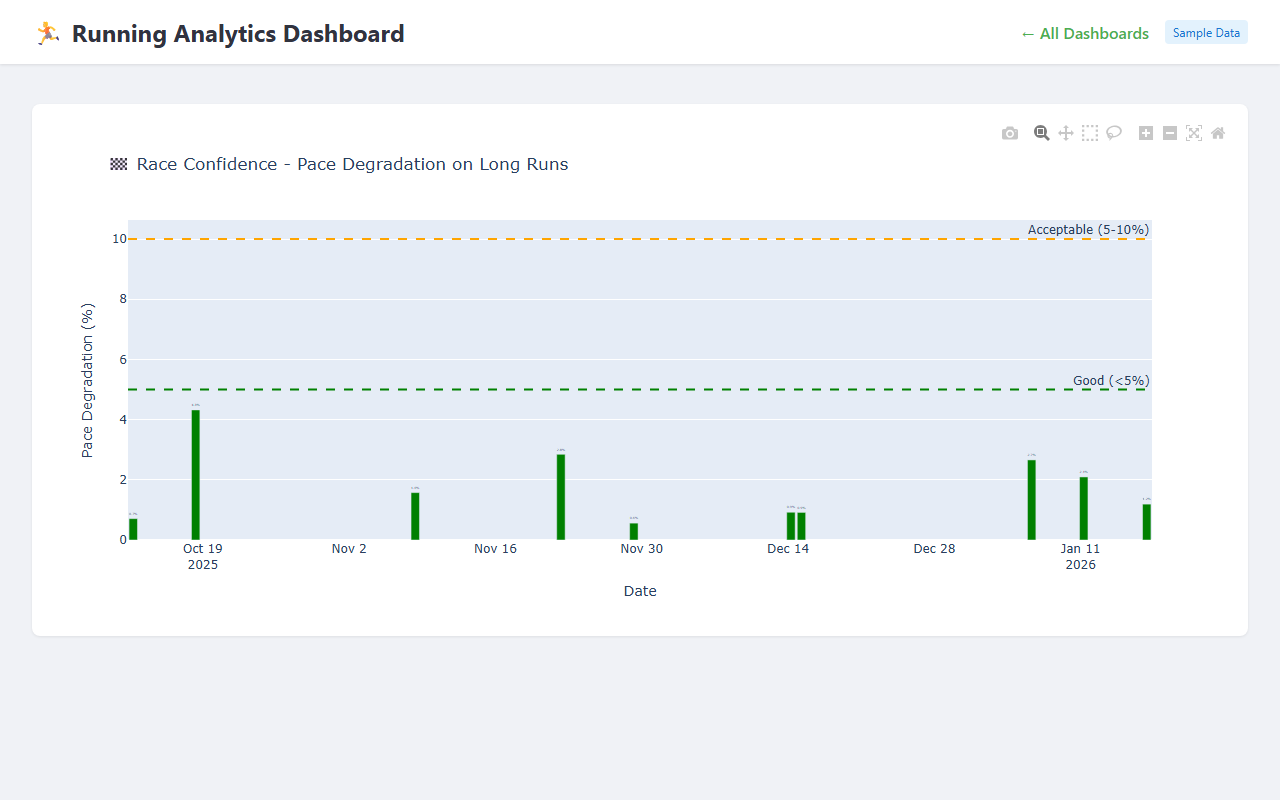
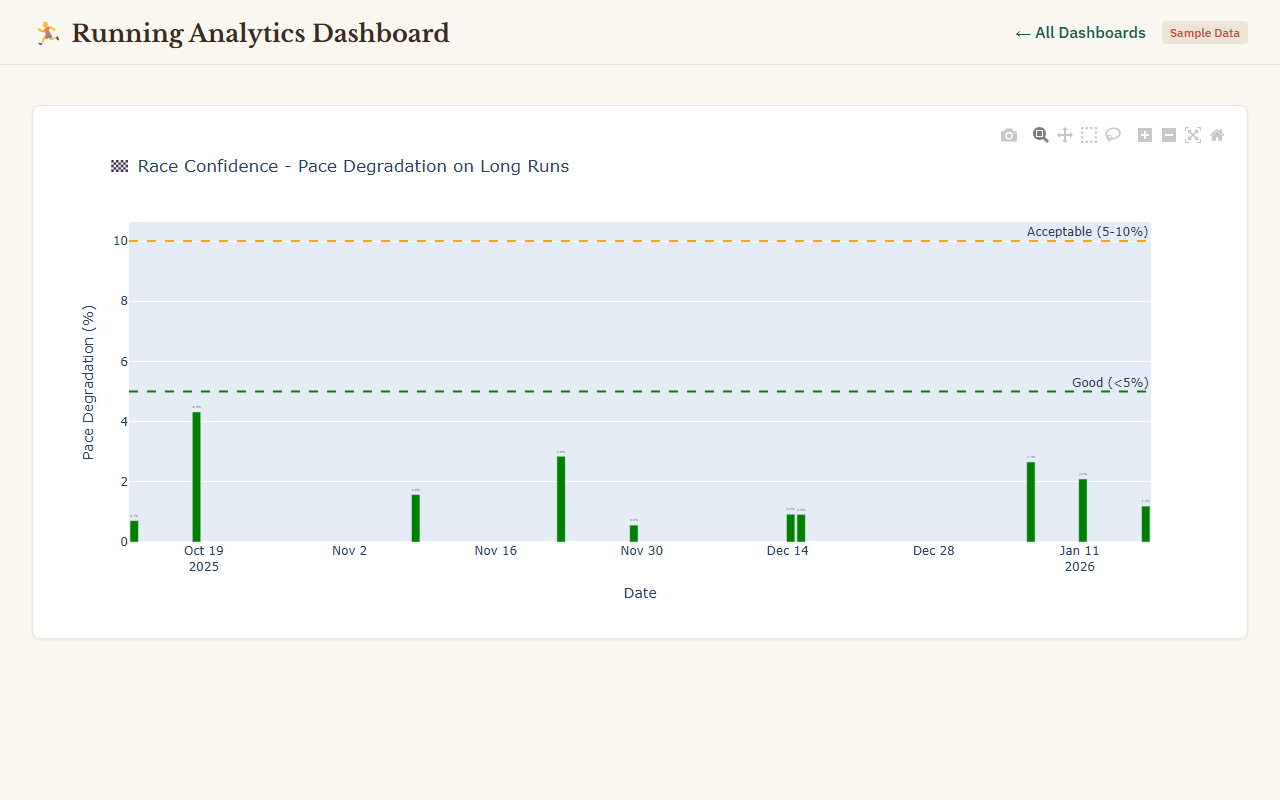
Apply Indian Earth design to dashboard snapshots and refresh screenshots

diff --git a/media/dashboard-snapshots/training-load.html b/media/dashboard-snapshots/training-load.html
@@ -6,16 +6,17 @@
     <meta name="viewport" content="width=device-width, initial-scale=1.0">
     <title>Training Load - Running Analytics</title>
     <style>
+        @import url('https://fonts.googleapis.com/css2?family=IBM+Plex+Sans:wght@400;500;600&family=Libre+Baskerville:wght@400;700&display=swap');
         * { box-sizing: border-box; }
-        body { font-family: -apple-system, BlinkMacSystemFont, 'Segoe UI', Roboto, sans-serif; margin: 0; background: #f0f2f6; }
-        .header { background: white; padding: 1rem 2rem; box-shadow: 0 1px 3px rgba(0,0,0,0.1); display: flex; align-items: center; justify-content: space-between; flex-wrap: wrap; gap: 1rem; }
-        .header h1 { margin: 0; font-size: 1.5rem; color: #31333f; }
-        .header a { color: #4CAF50; text-decoration: none; font-weight: 500; }
+        body { font-family: 'IBM Plex Sans', sans-serif; margin: 0; background: #faf6f0; color: #3d2b1f; }
+        .header { background: #faf6f0; padding: 1rem 2rem; border-bottom: 1px solid #ede4d5; display: flex; align-items: center; justify-content: space-between; flex-wrap: wrap; gap: 1rem; }
+        .header h1 { margin: 0; font-size: 1.5rem; color: #3d2b1f; font-family: 'Libre Baskerville', serif; }
+        .header a { color: #1a5c4c; text-decoration: none; font-weight: 500; }
         .header a:hover { text-decoration: underline; }
         .nav { display: flex; gap: 1rem; align-items: center; flex-wrap: wrap; }
-        .badge { background: #e3f2fd; color: #1976d2; padding: 0.25rem 0.5rem; border-radius: 4px; font-size: 0.75rem; }
+        .badge { background: #ede4d5; color: #c2452d; padding: 0.25rem 0.5rem; border-radius: 4px; font-size: 0.75rem; font-weight: 500; }
         .content { max-width: 1400px; margin: 0 auto; padding: 1.5rem 2rem; }
-        .chart-container { background: white; border-radius: 8px; padding: 1rem; margin-top: 1rem; box-shadow: 0 1px 3px rgba(0,0,0,0.08); }
+        .chart-container { background: white; border-radius: 8px; padding: 1rem; margin-top: 1rem; box-shadow: 0 1px 3px rgba(61,43,31,0.08); border: 1px solid #ede4d5; }
     </style>
 </head>
 <body>
@@ -29,7 +30,7 @@
     <div class="content">
         <div class="chart-container">
 <div>                        <script type="text/javascript">window.PlotlyConfig = {MathJaxConfig: 'local'};</script>
[2 lines of base64/hex data omitted]
         </div>
     </div>
 </body>

diff --git a/media/dashboard-snapshots/overview.html b/media/dashboard-snapshots/overview.html
@@ -6,16 +6,17 @@
     <meta name="viewport" content="width=device-width, initial-scale=1.0">
     <title>Overview - Running Analytics</title>
     <style>
+        @import url('https://fonts.googleapis.com/css2?family=IBM+Plex+Sans:wght@400;500;600&family=Libre+Baskerville:wght@400;700&display=swap');
         * { box-sizing: border-box; }
-        body { font-family: -apple-system, BlinkMacSystemFont, 'Segoe UI', Roboto, sans-serif; margin: 0; background: #f0f2f6; }
-        .header { background: white; padding: 1rem 2rem; box-shadow: 0 1px 3px rgba(0,0,0,0.1); display: flex; align-items: center; justify-content: space-between; flex-wrap: wrap; gap: 1rem; }
-        .header h1 { margin: 0; font-size: 1.5rem; color: #31333f; }
-        .header a { color: #4CAF50; text-decoration: none; font-weight: 500; }
+        body { font-family: 'IBM Plex Sans', sans-serif; margin: 0; background: #faf6f0; color: #3d2b1f; }
+        .header { background: #faf6f0; padding: 1rem 2rem; border-bottom: 1px solid #ede4d5; display: flex; align-items: center; justify-content: space-between; flex-wrap: wrap; gap: 1rem; }
+        .header h1 { margin: 0; font-size: 1.5rem; color: #3d2b1f; font-family: 'Libre Baskerville', serif; }
+        .header a { color: #1a5c4c; text-decoration: none; font-weight: 500; }
         .header a:hover { text-decoration: underline; }
         .nav { display: flex; gap: 1rem; align-items: center; flex-wrap: wrap; }
-        .badge { background: #e3f2fd; color: #1976d2; padding: 0.25rem 0.5rem; border-radius: 4px; font-size: 0.75rem; }
+        .badge { background: #ede4d5; color: #c2452d; padding: 0.25rem 0.5rem; border-radius: 4px; font-size: 0.75rem; font-weight: 500; }
         .content { max-width: 1400px; margin: 0 auto; padding: 1.5rem 2rem; }
-        .chart-container { background: white; border-radius: 8px; padding: 1rem; margin-top: 1rem; box-shadow: 0 1px 3px rgba(0,0,0,0.08); }
+        .chart-container { background: white; border-radius: 8px; padding: 1rem; margin-top: 1rem; box-shadow: 0 1px 3px rgba(61,43,31,0.08); border: 1px solid #ede4d5; }
     </style>
 </head>
 <body>
@@ -29,7 +30,7 @@
     <div class="content">
         <div class="chart-container">
 <div>                        <script type="text/javascript">window.PlotlyConfig = {MathJaxConfig: 'local'};</script>
-        <script charset="utf-8" src="https://cdn.plot.ly/plotly-3.3.1.min.js" integrity="sha256-4rD3fugVb/nVJYUv5Ky3v+fYXoouHaBSP20WIJuEiWg=" crossorigin="anonymous"></script>                <div id="57f77797-7b6c-47d9-9e78-6faa02aae124" class="plotly-graph-div" style="height:500px; width:100%;"></div>            <script type="text/javascript">                window.PLOTLYENV=window.PLOTLYENV || {};                                if (document.getElementById("57f77797-7b6c-47d9-9e78-6faa02aae124")) {                    Plotly.newPlot(                        "57f77797-7b6c-47d9-9e78-6faa02aae124",                        [{"marker":{"color":"steelblue"},"text":["20km","31km","53km","27km","53km","29km","52km","29km","35km","8km","47km","34km"],"textposition":"outside","x":["2025-10-27","2025-11-03","2025-11-10","2025-11-17","2025-11-24","2025-12-01","2025-12-08","2025-12-15","2025-12-22","2025-12-29","2026-01-05","2026-01-12"],"y":{"dtype":"f8","bdata":"MzMzMzNzNEBxPQrXozA\u002fQKRwPQrXQ0pAZmZmZmZmO0DsUbgehYtKQGZmZmZmpjxAUrgehesRSkBSuB6F61E9QFyPwvUovEFA16NwPQrXHkAehetRuJ5HQK5H4XoU7kBA"},"type":"bar"}],                        {"template":{"data":{"histogram2dcontour":[{"type":"histogram2dcontour","colorbar":{"outlinewidth":0,"ticks":""},"colorscale":[[0.0,"#0d0887"],[0.1111111111111111,"#46039f"],[0.2222222222222222,"#7201a8"],[0.3333333333333333,"#9c179e"],[0.4444444444444444,"#bd3786"],[0.5555555555555556,"#d8576b"],[0.6666666666666666,"#ed7953"],[0.7777777777777778,"#fb9f3a"],[0.8888888888888888,"#fdca26"],[1.0,"#f0f921"]]}],"choropleth":[{"type":"choropleth","colorbar":{"outlinewidth":0,"ticks":""}}],"histogram2d":[{"type":"histogram2d","colorbar":{"outlinewidth":0,"ticks":""},"colorscale":[[0.0,"#0d0887"],[0.1111111111111111,"#46039f"],[0.2222222222222222,"#7201a8"],[0.3333333333333333,"#9c179e"],[0.4444444444444444,"#bd3786"],[0.5555555555555556,"#d8576b"],[0.6666666666666666,"#ed7953"],[0.7777777777777778,"#fb9f3a"],[0.8888888888888888,"#fdca26"],[1.0,"#f0f921"]]}],"heatmap":[{"type":"heatmap","colorbar":{"outlinewidth":0,"ticks":""},"colorscale":[[0.0,"#0d0887"],[0.1111111111111111,"#46039f"],[0.2222222222222222,"#7201a8"],[0.3333333333333333,"#9c179e"],[0.4444444444444444,"#bd3786"],[0.5555555555555556,"#d8576b"],[0.6666666666666666,"#ed7953"],[0.7777777777777778,"#fb9f3a"],[0.8888888888888888,"#fdca26"],[1.0,"#f0f921"]]}],"contourcarpet":[{"type":"contourcarpet","colorbar":{"outlinewidth":0,"ticks":""}}],"contour":[{"type":"contour","colorbar":{"outlinewidth":0,"ticks":""},"colorscale":[[0.0,"#0d0887"],[0.1111111111111111,"#46039f"],[0.2222222222222222,"#7201a8"],[0.3333333333333333,"#9c179e"],[0.4444444444444444,"#bd3786"],[0.5555555555555556,"#d8576b"],[0.6666666666666666,"#ed7953"],[0.7777777777777778,"#fb9f3a"],[0.8888888888888888,"#fdca26"],[1.0,"#f0f921"]]}],"surface":[{"type":"surface","colorbar":{"outlinewidth":0,"ticks":""},"colorscale":[[0.0,"#0d0887"],[0.1111111111111111,"#46039f"],[0.2222222222222222,"#7201a8"],[0.3333333333333333,"#9c179e"],[0.4444444444444444,"#bd3786"],[0.5555555555555556,"#d8576b"],[0.6666666666666666,"#ed7953"],[0.7777777777777778,"#fb9f3a"],[0.8888888888888888,"#fdca26"],[1.0,"#f0f921"]]}],"mesh3d":[{"type":"mesh3d","colorbar":{"outlinewidth":0,"ticks":""}}],"scatter":[{"fillpattern":{"fillmode":"overlay","size":10,"solidity":0.2},"type":"scatter"}],"parcoords":[{"type":"parcoords","line":{"colorbar":{"outlinewidth":0,"ticks":""}}}],"scatterpolargl":[{"type":"scatterpolargl","marker":{"colorbar":{"outlinewidth":0,"ticks":""}}}],"bar":[{"error_x":{"color":"#2a3f5f"},"error_y":{"color":"#2a3f5f"},"marker":{"line":{"color":"#E5ECF6","width":0.5},"pattern":{"fillmode":"overlay","size":10,"solidity":0.2}},"type":"bar"}],"scattergeo":[{"type":"scattergeo","marker":{"colorbar":{"outlinewidth":0,"ticks":""}}}],"scatterpolar":[{"type":"scatterpolar","marker":{"colorbar":{"outlinewidth":0,"ticks":""}}}],"histogram":[{"marker":{"pattern":{"fillmode":"overlay","size":10,"solidity":0.2}},"type":"histogram"}],"scattergl":[{"type":"scattergl","marker":{"colorbar":{"outlinewidth":0,"ticks":""}}}],"scatter3d":[{"type":"scatter3d","line":{"colorbar":{"outlinewidth":0,"ticks":""}},"marker":{"colorbar":{"outlinewidth":0,"ticks":""}}}],"scattermap":[{"type":"scattermap","marker":{"colorbar":{"outlinewidth":0,"ticks":""}}}],"scattermapbox":[{"type":"scattermapbox","marker":{"colorbar":{"outlinewidth":0,"ticks":""}}}],"scatterternary":[{"type":"scatterternary","marker":{"colorbar":{"outlinewidth":0,"ticks":""}}}],"scattercarpet":[{"type":"scattercarpet","marker":{"colorbar":{"outlinewidth":0,"ticks":""}}}],"carpet":[{"aaxis":{"endlinecolor":"#2a3f5f","gridcolor":"white","linecolor":"white","minorgridcolor":"white","startlinecolor":"#2a3f5f"},"baxis":{"endlinecolor":"#2a3f5f","gridcolor":"white","linecolor":"white","minorgridcolor":"white","startlinecolor":"#2a3f5f"},"type":"carpet"}],"table":[{"cells":{"fill":{"color":"#EBF0F8"},"line":{"color":"white"}},"header":{"fill":{"color":"#C8D4E3"},"line":{"color":"white"}},"type":"table"}],"barpolar":[{"marker":{"line":{"color":"#E5ECF6","width":0.5},"pattern":{"fillmode":"overlay","size":10,"solidity":0.2}},"type":"barpolar"}],"pie":[{"automargin":true,"type":"pie"}]},"layout":{"autotypenumbers":"strict","colorway":["#636efa","#EF553B","#00cc96","#ab63fa","#FFA15A","#19d3f3","#FF6692","#B6E880","#FF97FF","#FECB52"],"font":{"color":"#2a3f5f"},"hovermode":"closest","hoverlabel":{"align":"left"},"paper_bgcolor":"white","plot_bgcolor":"#E5ECF6","polar":{"bgcolor":"#E5ECF6","angularaxis":{"gridcolor":"white","linecolor":"white","ticks":""},"radialaxis":{"gridcolor":"white","linecolor":"white","ticks":""}},"ternary":{"bgcolor":"#E5ECF6","aaxis":{"gridcolor":"white","linecolor":"white","ticks":""},"baxis":{"gridcolor":"white","linecolor":"white","ticks":""},"caxis":{"gridcolor":"white","linecolor":"white","ticks":""}},"coloraxis":{"colorbar":{"outlinewidth":0,"ticks":""}},"colorscale":{"sequential":[[0.0,"#0d0887"],[0.1111111111111111,"#46039f"],[0.2222222222222222,"#7201a8"],[0.3333333333333333,"#9c179e"],[0.4444444444444444,"#bd3786"],[0.5555555555555556,"#d8576b"],[0.6666666666666666,"#ed7953"],[0.7777777777777778,"#fb9f3a"],[0.8888888888888888,"#fdca26"],[1.0,"#f0f921"]],"sequentialminus":[[0.0,"#0d0887"],[0.1111111111111111,"#46039f"],[0.2222222222222222,"#7201a8"],[0.3333333333333333,"#9c179e"],[0.4444444444444444,"#bd3786"],[0.5555555555555556,"#d8576b"],[0.6666666666666666,"#ed7953"],[0.7777777777777778,"#fb9f3a"],[0.8888888888888888,"#fdca26"],[1.0,"#f0f921"]],"diverging":[[0,"#8e0152"],[0.1,"#c51b7d"],[0.2,"#de77ae"],[0.3,"#f1b6da"],[0.4,"#fde0ef"],[0.5,"#f7f7f7"],[0.6,"#e6f5d0"],[0.7,"#b8e186"],[0.8,"#7fbc41"],[0.9,"#4d9221"],[1,"#276419"]]},"xaxis":{"gridcolor":"white","linecolor":"white","ticks":"","title":{"standoff":15},"zerolinecolor":"white","automargin":true,"zerolinewidth":2},"yaxis":{"gridcolor":"white","linecolor":"white","ticks":"","title":{"standoff":15},"zerolinecolor":"white","automargin":true,"zerolinewidth":2},"scene":{"xaxis":{"backgroundcolor":"#E5ECF6","gridcolor":"white","linecolor":"white","showbackground":true,"ticks":"","zerolinecolor":"white","gridwidth":2},"yaxis":{"backgroundcolor":"#E5ECF6","gridcolor":"white","linecolor":"white","showbackground":true,"ticks":"","zerolinecolor":"white","gridwidth":2},"zaxis":{"backgroundcolor":"#E5ECF6","gridcolor":"white","linecolor":"white","showbackground":true,"ticks":"","zerolinecolor":"white","gridwidth":2}},"shapedefaults":{"line":{"color":"#2a3f5f"}},"annotationdefaults":{"arrowcolor":"#2a3f5f","arrowhead":0,"arrowwidth":1},"geo":{"bgcolor":"white","landcolor":"#E5ECF6","subunitcolor":"white","showland":true,"showlakes":true,"lakecolor":"white"},"title":{"x":0.05},"mapbox":{"style":"light"}}},"title":{"text":"\ud83d\udcca Training Overview - Last 12 Weeks\u003cbr\u003e\u003csub\u003eVO2max: 44.6 | Resting HR: 59 bpm | Training Load (7d): 363\u003c\u002fsub\u003e"},"xaxis":{"title":{"text":"Week"}},"yaxis":{"title":{"text":"Distance (km)"}},"height":500},                        {"displayModeBar": true, "displaylogo": false, "responsive": true}                    )                };            </script>        </div>
+        <script charset="utf-8" src="https://cdn.plot.ly/plotly-3.3.1.min.js" integrity="sha256-4rD3fugVb/nVJYUv5Ky3v+fYXoouHaBSP20WIJuEiWg=" crossorigin="anonymous"></script>                <div id="57f77797-7b6c-47d9-9e78-6faa02aae124" class="plotly-graph-div" style="height:500px; width:100%;"></div>            <script type="text/javascript">                window.PLOTLYENV=window.PLOTLYENV || {};                                if (document.getElementById("57f77797-7b6c-47d9-9e78-6faa02aae124")) {                    Plotly.newPlot(                        "57f77797-7b6c-47d9-9e78-6faa02aae124",                        [{"marker":{"color":"#1a5c4c"},"text":["20km","31km","53km","27km","53km","29km","52km","29km","35km","8km","47km","34km"],"textposition":"outside","x":["2025-10-27","2025-11-03","2025-11-10","2025-11-17","2025-11-24","2025-12-01","2025-12-08","2025-12-15","2025-12-22","2025-12-29","2026-01-05","2026-01-12"],"y":{"dtype":"f8","bdata":"MzMzMzNzNEBxPQrXozA\u002fQKRwPQrXQ0pAZmZmZmZmO0DsUbgehYtKQGZmZmZmpjxAUrgehesRSkBSuB6F61E9QFyPwvUovEFA16NwPQrXHkAehetRuJ5HQK5H4XoU7kBA"},"type":"bar"}],                        {"template":{"data":{"histogram2dcontour":[{"type":"histogram2dcontour","colorbar":{"outlinewidth":0,"ticks":""},"colorscale":[[0.0,"#0d0887"],[0.1111111111111111,"#46039f"],[0.2222222222222222,"#7201a8"],[0.3333333333333333,"#9c179e"],[0.4444444444444444,"#bd3786"],[0.5555555555555556,"#d8576b"],[0.6666666666666666,"#ed7953"],[0.7777777777777778,"#fb9f3a"],[0.8888888888888888,"#fdca26"],[1.0,"#f0f921"]]}],"choropleth":[{"type":"choropleth","colorbar":{"outlinewidth":0,"ticks":""}}],"histogram2d":[{"type":"histogram2d","colorbar":{"outlinewidth":0,"ticks":""},"colorscale":[[0.0,"#0d0887"],[0.1111111111111111,"#46039f"],[0.2222222222222222,"#7201a8"],[0.3333333333333333,"#9c179e"],[0.4444444444444444,"#bd3786"],[0.5555555555555556,"#d8576b"],[0.6666666666666666,"#ed7953"],[0.7777777777777778,"#fb9f3a"],[0.8888888888888888,"#fdca26"],[1.0,"#f0f921"]]}],"heatmap":[{"type":"heatmap","colorbar":{"outlinewidth":0,"ticks":""},"colorscale":[[0.0,"#0d0887"],[0.1111111111111111,"#46039f"],[0.2222222222222222,"#7201a8"],[0.3333333333333333,"#9c179e"],[0.4444444444444444,"#bd3786"],[0.5555555555555556,"#d8576b"],[0.6666666666666666,"#ed7953"],[0.7777777777777778,"#fb9f3a"],[0.8888888888888888,"#fdca26"],[1.0,"#f0f921"]]}],"contourcarpet":[{"type":"contourcarpet","colorbar":{"outlinewidth":0,"ticks":""}}],"contour":[{"type":"contour","colorbar":{"outlinewidth":0,"ticks":""},"colorscale":[[0.0,"#0d0887"],[0.1111111111111111,"#46039f"],[0.2222222222222222,"#7201a8"],[0.3333333333333333,"#9c179e"],[0.4444444444444444,"#bd3786"],[0.5555555555555556,"#d8576b"],[0.6666666666666666,"#ed7953"],[0.7777777777777778,"#fb9f3a"],[0.8888888888888888,"#fdca26"],[1.0,"#f0f921"]]}],"surface":[{"type":"surface","colorbar":{"outlinewidth":0,"ticks":""},"colorscale":[[0.0,"#0d0887"],[0.1111111111111111,"#46039f"],[0.2222222222222222,"#7201a8"],[0.3333333333333333,"#9c179e"],[0.4444444444444444,"#bd3786"],[0.5555555555555556,"#d8576b"],[0.6666666666666666,"#ed7953"],[0.7777777777777778,"#fb9f3a"],[0.8888888888888888,"#fdca26"],[1.0,"#f0f921"]]}],"mesh3d":[{"type":"mesh3d","colorbar":{"outlinewidth":0,"ticks":""}}],"scatter":[{"fillpattern":{"fillmode":"overlay","size":10,"solidity":0.2},"type":"scatter"}],"parcoords":[{"type":"parcoords","line":{"colorbar":{"outlinewidth":0,"ticks":""}}}],"scatterpolargl":[{"type":"scatterpolargl","marker":{"colorbar":{"outlinewidth":0,"ticks":""}}}],"bar":[{"error_x":{"color":"#2a3f5f"},"error_y":{"color":"#2a3f5f"},"marker":{"line":{"color":"#E5ECF6","width":0.5},"pattern":{"fillmode":"overlay","size":10,"solidity":0.2}},"type":"bar"}],"scattergeo":[{"type":"scattergeo","marker":{"colorbar":{"outlinewidth":0,"ticks":""}}}],"scatterpolar":[{"type":"scatterpolar","marker":{"colorbar":{"outlinewidth":0,"ticks":""}}}],"histogram":[{"marker":{"pattern":{"fillmode":"overlay","size":10,"solidity":0.2}},"type":"histogram"}],"scattergl":[{"type":"scattergl","marker":{"colorbar":{"outlinewidth":0,"ticks":""}}}],"scatter3d":[{"type":"scatter3d","line":{"colorbar":{"outlinewidth":0,"ticks":""}},"marker":{"colorbar":{"outlinewidth":0,"ticks":""}}}],"scattermap":[{"type":"scattermap","marker":{"colorbar":{"outlinewidth":0,"ticks":""}}}],"scattermapbox":[{"type":"scattermapbox","marker":{"colorbar":{"outlinewidth":0,"ticks":""}}}],"scatterternary":[{"type":"scatterternary","marker":{"colorbar":{"outlinewidth":0,"ticks":""}}}],"scattercarpet":[{"type":"scattercarpet","marker":{"colorbar":{"outlinewidth":0,"ticks":""}}}],"carpet":[{"aaxis":{"endlinecolor":"#2a3f5f","gridcolor":"white","linecolor":"white","minorgridcolor":"white","startlinecolor":"#2a3f5f"},"baxis":{"endlinecolor":"#2a3f5f","gridcolor":"white","linecolor":"white","minorgridcolor":"white","startlinecolor":"#2a3f5f"},"type":"carpet"}],"table":[{"cells":{"fill":{"color":"#EBF0F8"},"line":{"color":"white"}},"header":{"fill":{"color":"#C8D4E3"},"line":{"color":"white"}},"type":"table"}],"barpolar":[{"marker":{"line":{"color":"#E5ECF6","width":0.5},"pattern":{"fillmode":"overlay","size":10,"solidity":0.2}},"type":"barpolar"}],"pie":[{"automargin":true,"type":"pie"}]},"layout":{"autotypenumbers":"strict","colorway":["#636efa","#EF553B","#00cc96","#ab63fa","#FFA15A","#19d3f3","#FF6692","#B6E880","#FF97FF","#FECB52"],"font":{"color":"#2a3f5f"},"hovermode":"closest","hoverlabel":{"align":"left"},"paper_bgcolor":"white","plot_bgcolor":"#E5ECF6","polar":{"bgcolor":"#E5ECF6","angularaxis":{"gridcolor":"white","linecolor":"white","ticks":""},"radialaxis":{"gridcolor":"white","linecolor":"white","ticks":""}},"ternary":{"bgcolor":"#E5ECF6","aaxis":{"gridcolor":"white","linecolor":"white","ticks":""},"baxis":{"gridcolor":"white","linecolor":"white","ticks":""},"caxis":{"gridcolor":"white","linecolor":"white","ticks":""}},"coloraxis":{"colorbar":{"outlinewidth":0,"ticks":""}},"colorscale":{"sequential":[[0.0,"#0d0887"],[0.1111111111111111,"#46039f"],[0.2222222222222222,"#7201a8"],[0.3333333333333333,"#9c179e"],[0.4444444444444444,"#bd3786"],[0.5555555555555556,"#d8576b"],[0.6666666666666666,"#ed7953"],[0.7777777777777778,"#fb9f3a"],[0.8888888888888888,"#fdca26"],[1.0,"#f0f921"]],"sequentialminus":[[0.0,"#0d0887"],[0.1111111111111111,"#46039f"],[0.2222222222222222,"#7201a8"],[0.3333333333333333,"#9c179e"],[0.4444444444444444,"#bd3786"],[0.5555555555555556,"#d8576b"],[0.6666666666666666,"#ed7953"],[0.7777777777777778,"#fb9f3a"],[0.8888888888888888,"#fdca26"],[1.0,"#f0f921"]],"diverging":[[0,"#8e0152"],[0.1,"#c51b7d"],[0.2,"#de77ae"],[0.3,"#f1b6da"],[0.4,"#fde0ef"],[0.5,"#f7f7f7"],[0.6,"#e6f5d0"],[0.7,"#b8e186"],[0.8,"#7fbc41"],[0.9,"#4d9221"],[1,"#276419"]]},"xaxis":{"gridcolor":"white","linecolor":"white","ticks":"","title":{"standoff":15},"zerolinecolor":"white","automargin":true,"zerolinewidth":2},"yaxis":{"gridcolor":"white","linecolor":"white","ticks":"","title":{"standoff":15},"zerolinecolor":"white","automargin":true,"zerolinewidth":2},"scene":{"xaxis":{"backgroundcolor":"#E5ECF6","gridcolor":"white","linecolor":"white","showbackground":true,"ticks":"","zerolinecolor":"white","gridwidth":2},"yaxis":{"backgroundcolor":"#E5ECF6","gridcolor":"white","linecolor":"white","showbackground":true,"ticks":"","zerolinecolor":"white","gridwidth":2},"zaxis":{"backgroundcolor":"#E5ECF6","gridcolor":"white","linecolor":"white","showbackground":true,"ticks":"","zerolinecolor":"white","gridwidth":2}},"shapedefaults":{"line":{"color":"#2a3f5f"}},"annotationdefaults":{"arrowcolor":"#2a3f5f","arrowhead":0,"arrowwidth":1},"geo":{"bgcolor":"white","landcolor":"#E5ECF6","subunitcolor":"white","showland":true,"showlakes":true,"lakecolor":"white"},"title":{"x":0.05},"mapbox":{"style":"light"}}},"title":{"text":"\ud83d\udcca Training Overview - Last 12 Weeks\u003cbr\u003e\u003csub\u003eVO2max: 44.6 | Resting HR: 59 bpm | Training Load (7d): 363\u003c\u002fsub\u003e"},"xaxis":{"title":{"text":"Week"}},"yaxis":{"title":{"text":"Distance (km)"}},"height":500},                        {"displayModeBar": true, "displaylogo": false, "responsive": true}                    )                };            </script>        </div>
         </div>
     </div>
 </body>

diff --git a/media/dashboard-snapshots/index.html b/media/dashboard-snapshots/index.html
@@ -5,16 +5,19 @@
     <meta name="viewport" content="width=device-width, initial-scale=1.0">
     <title>Running Analytics Dashboard - Sample Data</title>
     <style>
+        @import url('https://fonts.googleapis.com/css2?family=IBM+Plex+Sans:wght@400;500;600&family=Libre+Baskerville:wght@400;700&display=swap');
         body {
-            font-family: -apple-system, BlinkMacSystemFont, 'Segoe UI', Roboto, sans-serif;
+            font-family: 'IBM Plex Sans', sans-serif;
             max-width: 1200px;
             margin: 0 auto;
             padding: 20px;
-            background: #f5f5f5;
+            background: #faf6f0;
+            color: #3d2b1f;
         }
         h1 {
-            color: #333;
-            border-bottom: 3px solid #4CAF50;
+            color: #3d2b1f;
+            font-family: 'Libre Baskerville', serif;
+            border-bottom: 3px solid #1a5c4c;
             padding-bottom: 10px;
         }
         .dashboard-grid {
@@ -27,7 +30,8 @@
             background: white;
             padding: 20px;
             border-radius: 8px;
-            box-shadow: 0 2px 4px rgba(0,0,0,0.1);
+            box-shadow: 0 2px 4px rgba(61,43,31,0.1);
+            border: 1px solid #ede4d5;
             transition: transform 0.2s, box-shadow 0.2s;
         }
         .dashboard-card:hover {
@@ -36,24 +40,25 @@
         }
         .dashboard-card h3 {
             margin-top: 0;
-            color: #4CAF50;
+            color: #1a5c4c;
+            font-family: 'Libre Baskerville', serif;
         }
         .dashboard-card a {
             display: inline-block;
             margin-top: 10px;
             padding: 8px 16px;
-            background: #4CAF50;
-            color: white;
+            background: #1a5c4c;
+            color: #faf6f0;
             text-decoration: none;
             border-radius: 4px;
             transition: background 0.2s;
         }
         .dashboard-card a:hover {
-            background: #45a049;
+            background: #143f38;
         }
         .info-box {
-            background: #e3f2fd;
-            border-left: 4px solid #2196F3;
+            background: #ede4d5;
+            border-left: 4px solid #c2452d;
             padding: 15px;
             margin: 20px 0;
             border-radius: 4px;
@@ -74,11 +79,11 @@
         .stat-card .value {
             font-size: 24px;
             font-weight: bold;
-            color: #4CAF50;
+            color: #1a5c4c;
         }
         .stat-card .label {
             font-size: 12px;
-            color: #666;
+            color: #6b5744;
             margin-top: 5px;
         }
     </style>

diff --git a/media/dashboard-snapshots/consistency.html b/media/dashboard-snapshots/consistency.html
@@ -6,16 +6,17 @@
     <meta name="viewport" content="width=device-width, initial-scale=1.0">
     <title>Consistency Guardian - Running Analytics</title>
     <style>
+        @import url('https://fonts.googleapis.com/css2?family=IBM+Plex+Sans:wght@400;500;600&family=Libre+Baskerville:wght@400;700&display=swap');
         * { box-sizing: border-box; }
-        body { font-family: -apple-system, BlinkMacSystemFont, 'Segoe UI', Roboto, sans-serif; margin: 0; background: #f0f2f6; }
-        .header { background: white; padding: 1rem 2rem; box-shadow: 0 1px 3px rgba(0,0,0,0.1); display: flex; align-items: center; justify-content: space-between; flex-wrap: wrap; gap: 1rem; }
-        .header h1 { margin: 0; font-size: 1.5rem; color: #31333f; }
-        .header a { color: #4CAF50; text-decoration: none; font-weight: 500; }
+        body { font-family: 'IBM Plex Sans', sans-serif; margin: 0; background: #faf6f0; color: #3d2b1f; }
+        .header { background: #faf6f0; padding: 1rem 2rem; border-bottom: 1px solid #ede4d5; display: flex; align-items: center; justify-content: space-between; flex-wrap: wrap; gap: 1rem; }
+        .header h1 { margin: 0; font-size: 1.5rem; color: #3d2b1f; font-family: 'Libre Baskerville', serif; }
+        .header a { color: #1a5c4c; text-decoration: none; font-weight: 500; }
         .header a:hover { text-decoration: underline; }
         .nav { display: flex; gap: 1rem; align-items: center; flex-wrap: wrap; }
-        .badge { background: #e3f2fd; color: #1976d2; padding: 0.25rem 0.5rem; border-radius: 4px; font-size: 0.75rem; }
+        .badge { background: #ede4d5; color: #c2452d; padding: 0.25rem 0.5rem; border-radius: 4px; font-size: 0.75rem; font-weight: 500; }
         .content { max-width: 1400px; margin: 0 auto; padding: 1.5rem 2rem; }
-        .chart-container { background: white; border-radius: 8px; padding: 1rem; margin-top: 1rem; box-shadow: 0 1px 3px rgba(0,0,0,0.08); }
+        .chart-container { background: white; border-radius: 8px; padding: 1rem; margin-top: 1rem; box-shadow: 0 1px 3px rgba(61,43,31,0.08); border: 1px solid #ede4d5; }
     </style>
 </head>
 <body>

diff --git a/media/dashboard-snapshots/race-confidence.html b/media/dashboard-snapshots/race-confidence.html
@@ -6,16 +6,17 @@
     <meta name="viewport" content="width=device-width, initial-scale=1.0">
     <title>Race Confidence - Running Analytics</title>
     <style>
+        @import url('https://fonts.googleapis.com/css2?family=IBM+Plex+Sans:wght@400;500;600&family=Libre+Baskerville:wght@400;700&display=swap');
         * { box-sizing: border-box; }
-        body { font-family: -apple-system, BlinkMacSystemFont, 'Segoe UI', Roboto, sans-serif; margin: 0; background: #f0f2f6; }
-        .header { background: white; padding: 1rem 2rem; box-shadow: 0 1px 3px rgba(0,0,0,0.1); display: flex; align-items: center; justify-content: space-between; flex-wrap: wrap; gap: 1rem; }
-        .header h1 { margin: 0; font-size: 1.5rem; color: #31333f; }
-        .header a { color: #4CAF50; text-decoration: none; font-weight: 500; }
+        body { font-family: 'IBM Plex Sans', sans-serif; margin: 0; background: #faf6f0; color: #3d2b1f; }
+        .header { background: #faf6f0; padding: 1rem 2rem; border-bottom: 1px solid #ede4d5; display: flex; align-items: center; justify-content: space-between; flex-wrap: wrap; gap: 1rem; }
+        .header h1 { margin: 0; font-size: 1.5rem; color: #3d2b1f; font-family: 'Libre Baskerville', serif; }
+        .header a { color: #1a5c4c; text-decoration: none; font-weight: 500; }
         .header a:hover { text-decoration: underline; }
         .nav { display: flex; gap: 1rem; align-items: center; flex-wrap: wrap; }
-        .badge { background: #e3f2fd; color: #1976d2; padding: 0.25rem 0.5rem; border-radius: 4px; font-size: 0.75rem; }
+        .badge { background: #ede4d5; color: #c2452d; padding: 0.25rem 0.5rem; border-radius: 4px; font-size: 0.75rem; font-weight: 500; }
         .content { max-width: 1400px; margin: 0 auto; padding: 1.5rem 2rem; }
-        .chart-container { background: white; border-radius: 8px; padding: 1rem; margin-top: 1rem; box-shadow: 0 1px 3px rgba(0,0,0,0.08); }
+        .chart-container { background: white; border-radius: 8px; padding: 1rem; margin-top: 1rem; box-shadow: 0 1px 3px rgba(61,43,31,0.08); border: 1px solid #ede4d5; }
     </style>
 </head>
 <body>

diff --git a/media/dashboard-snapshots/form.html b/media/dashboard-snapshots/form.html
@@ -6,16 +6,17 @@
     <meta name="viewport" content="width=device-width, initial-scale=1.0">
     <title>Form Analysis - Running Analytics</title>
     <style>
+        @import url('https://fonts.googleapis.com/css2?family=IBM+Plex+Sans:wght@400;500;600&family=Libre+Baskerville:wght@400;700&display=swap');
         * { box-sizing: border-box; }
-        body { font-family: -apple-system, BlinkMacSystemFont, 'Segoe UI', Roboto, sans-serif; margin: 0; background: #f0f2f6; }
-        .header { background: white; padding: 1rem 2rem; box-shadow: 0 1px 3px rgba(0,0,0,0.1); display: flex; align-items: center; justify-content: space-between; flex-wrap: wrap; gap: 1rem; }
-        .header h1 { margin: 0; font-size: 1.5rem; color: #31333f; }
-        .header a { color: #4CAF50; text-decoration: none; font-weight: 500; }
+        body { font-family: 'IBM Plex Sans', sans-serif; margin: 0; background: #faf6f0; color: #3d2b1f; }
+        .header { background: #faf6f0; padding: 1rem 2rem; border-bottom: 1px solid #ede4d5; display: flex; align-items: center; justify-content: space-between; flex-wrap: wrap; gap: 1rem; }
+        .header h1 { margin: 0; font-size: 1.5rem; color: #3d2b1f; font-family: 'Libre Baskerville', serif; }
+        .header a { color: #1a5c4c; text-decoration: none; font-weight: 500; }
         .header a:hover { text-decoration: underline; }
         .nav { display: flex; gap: 1rem; align-items: center; flex-wrap: wrap; }
-        .badge { background: #e3f2fd; color: #1976d2; padding: 0.25rem 0.5rem; border-radius: 4px; font-size: 0.75rem; }
+        .badge { background: #ede4d5; color: #c2452d; padding: 0.25rem 0.5rem; border-radius: 4px; font-size: 0.75rem; font-weight: 500; }
         .content { max-width: 1400px; margin: 0 auto; padding: 1.5rem 2rem; }
-        .chart-container { background: white; border-radius: 8px; padding: 1rem; margin-top: 1rem; box-shadow: 0 1px 3px rgba(0,0,0,0.08); }
+        .chart-container { background: white; border-radius: 8px; padding: 1rem; margin-top: 1rem; box-shadow: 0 1px 3px rgba(61,43,31,0.08); border: 1px solid #ede4d5; }
     </style>
 </head>
 <body>

diff --git a/media/dashboard-snapshots/recovery.html b/media/dashboard-snapshots/recovery.html
@@ -6,16 +6,17 @@
     <meta name="viewport" content="width=device-width, initial-scale=1.0">
     <title>Recovery - Running Analytics</title>
     <style>
+        @import url('https://fonts.googleapis.com/css2?family=IBM+Plex+Sans:wght@400;500;600&family=Libre+Baskerville:wght@400;700&display=swap');
         * { box-sizing: border-box; }
-        body { font-family: -apple-system, BlinkMacSystemFont, 'Segoe UI', Roboto, sans-serif; margin: 0; background: #f0f2f6; }
-        .header { background: white; padding: 1rem 2rem; box-shadow: 0 1px 3px rgba(0,0,0,0.1); display: flex; align-items: center; justify-content: space-between; flex-wrap: wrap; gap: 1rem; }
-        .header h1 { margin: 0; font-size: 1.5rem; color: #31333f; }
-        .header a { color: #4CAF50; text-decoration: none; font-weight: 500; }
+        body { font-family: 'IBM Plex Sans', sans-serif; margin: 0; background: #faf6f0; color: #3d2b1f; }
+        .header { background: #faf6f0; padding: 1rem 2rem; border-bottom: 1px solid #ede4d5; display: flex; align-items: center; justify-content: space-between; flex-wrap: wrap; gap: 1rem; }
+        .header h1 { margin: 0; font-size: 1.5rem; color: #3d2b1f; font-family: 'Libre Baskerville', serif; }
+        .header a { color: #1a5c4c; text-decoration: none; font-weight: 500; }
         .header a:hover { text-decoration: underline; }
         .nav { display: flex; gap: 1rem; align-items: center; flex-wrap: wrap; }
-        .badge { background: #e3f2fd; color: #1976d2; padding: 0.25rem 0.5rem; border-radius: 4px; font-size: 0.75rem; }
+        .badge { background: #ede4d5; color: #c2452d; padding: 0.25rem 0.5rem; border-radius: 4px; font-size: 0.75rem; font-weight: 500; }
         .content { max-width: 1400px; margin: 0 auto; padding: 1.5rem 2rem; }
-        .chart-container { background: white; border-radius: 8px; padding: 1rem; margin-top: 1rem; box-shadow: 0 1px 3px rgba(0,0,0,0.08); }
+        .chart-container { background: white; border-radius: 8px; padding: 1rem; margin-top: 1rem; box-shadow: 0 1px 3px rgba(61,43,31,0.08); border: 1px solid #ede4d5; }
     </style>
 </head>
 <body>
